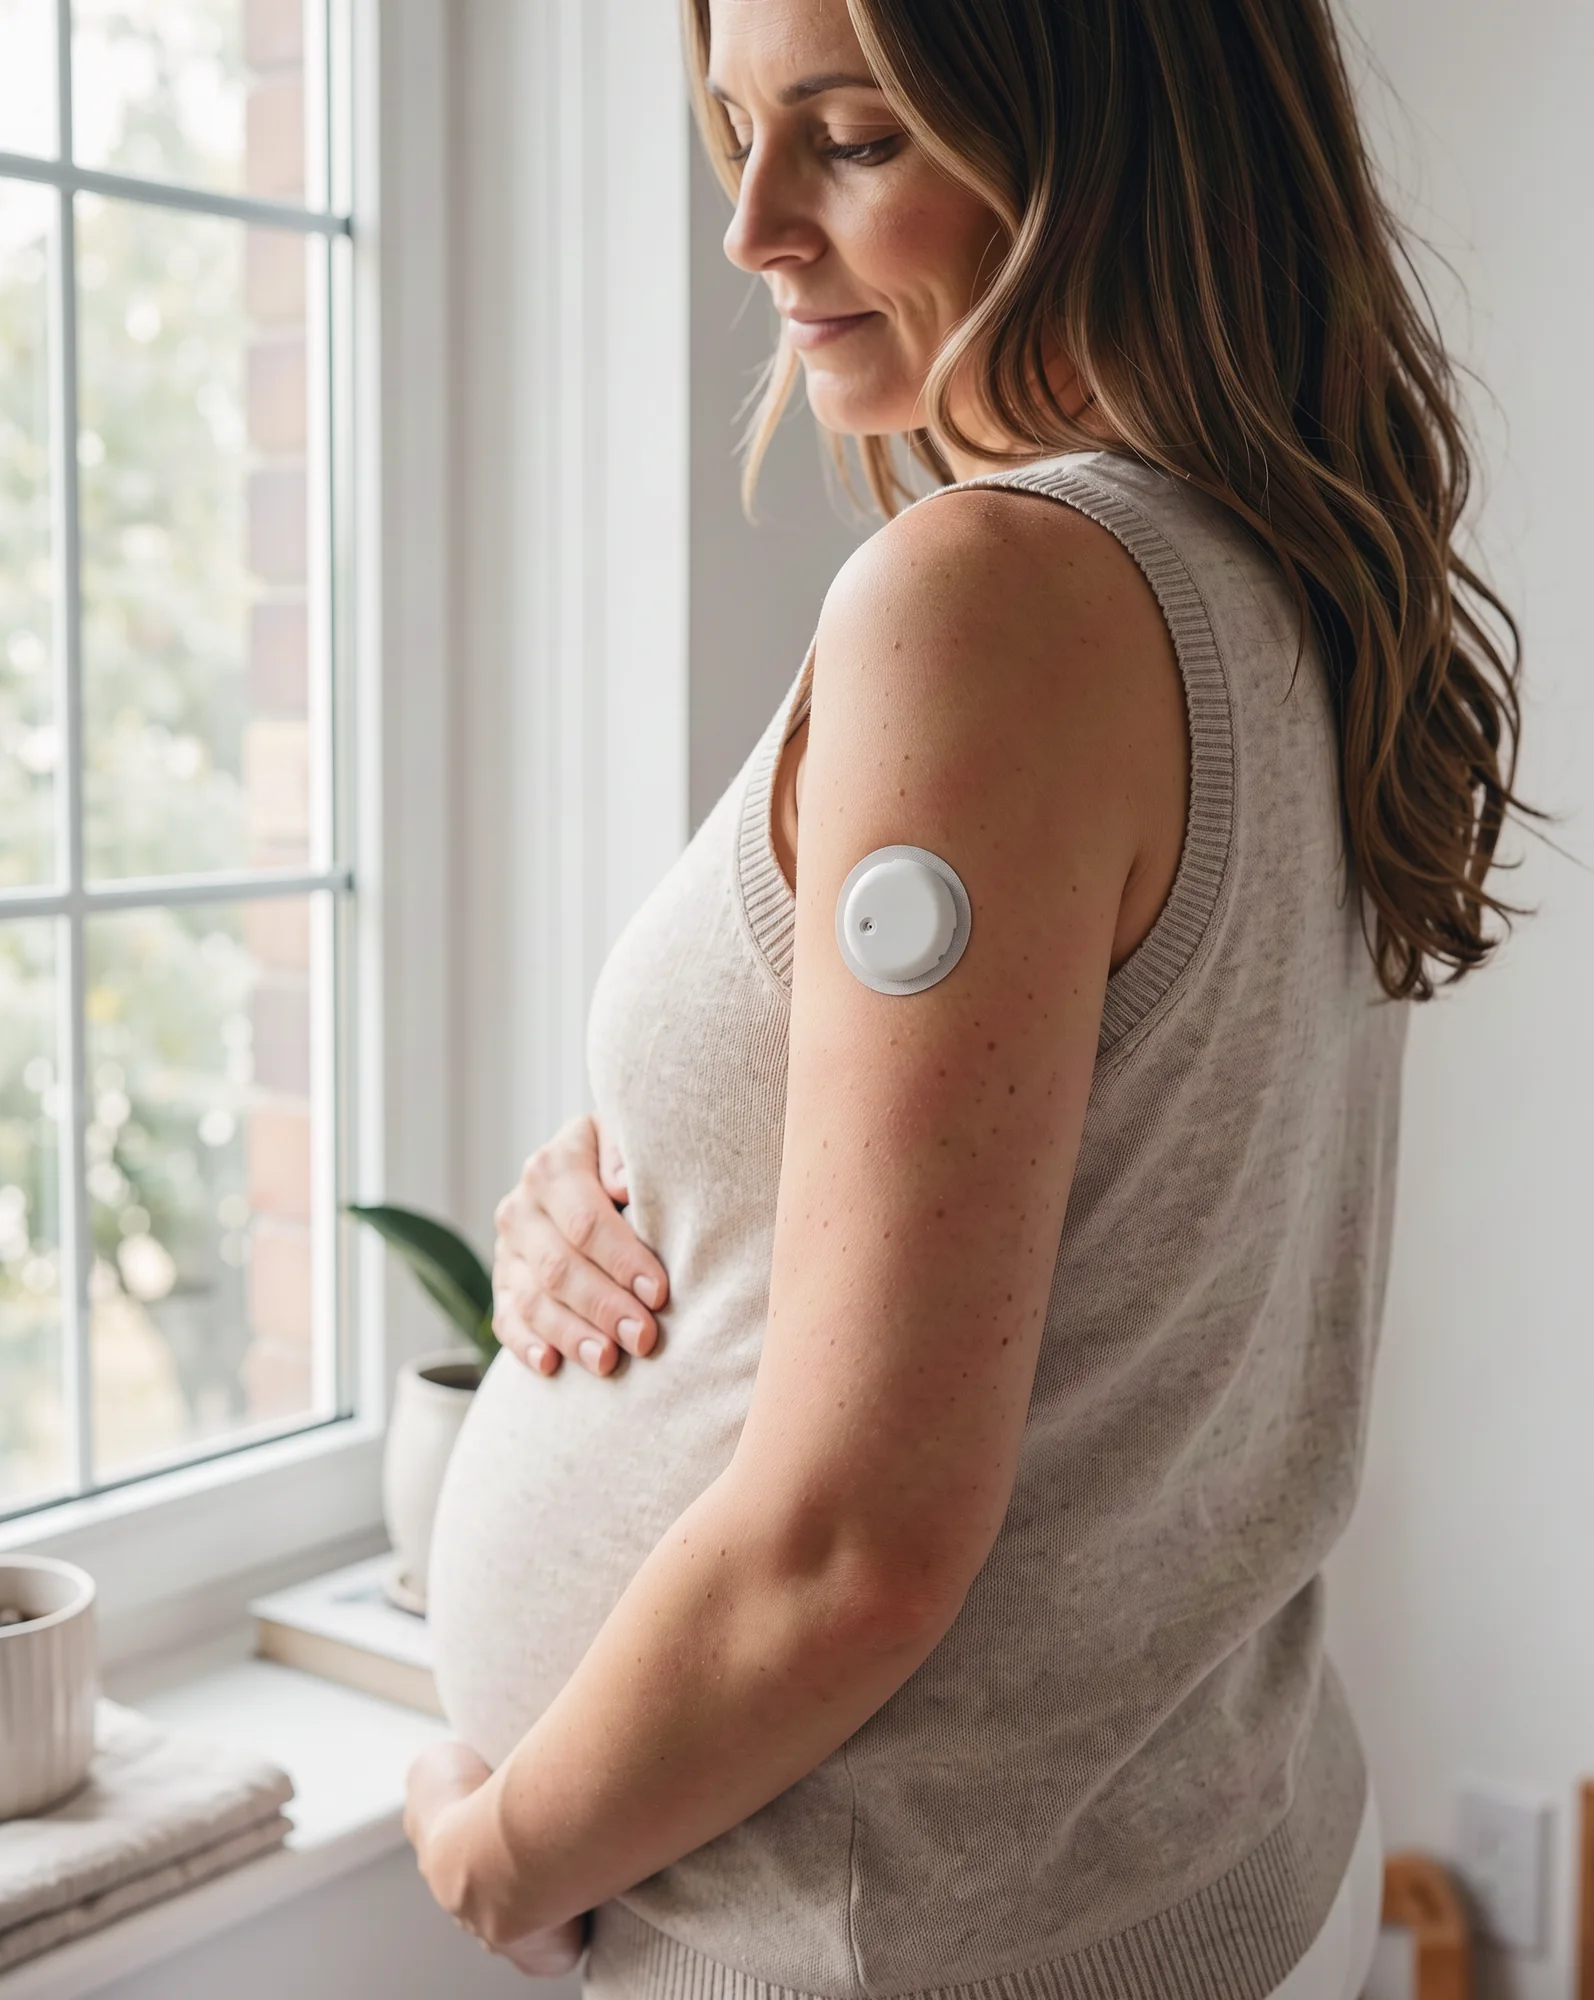
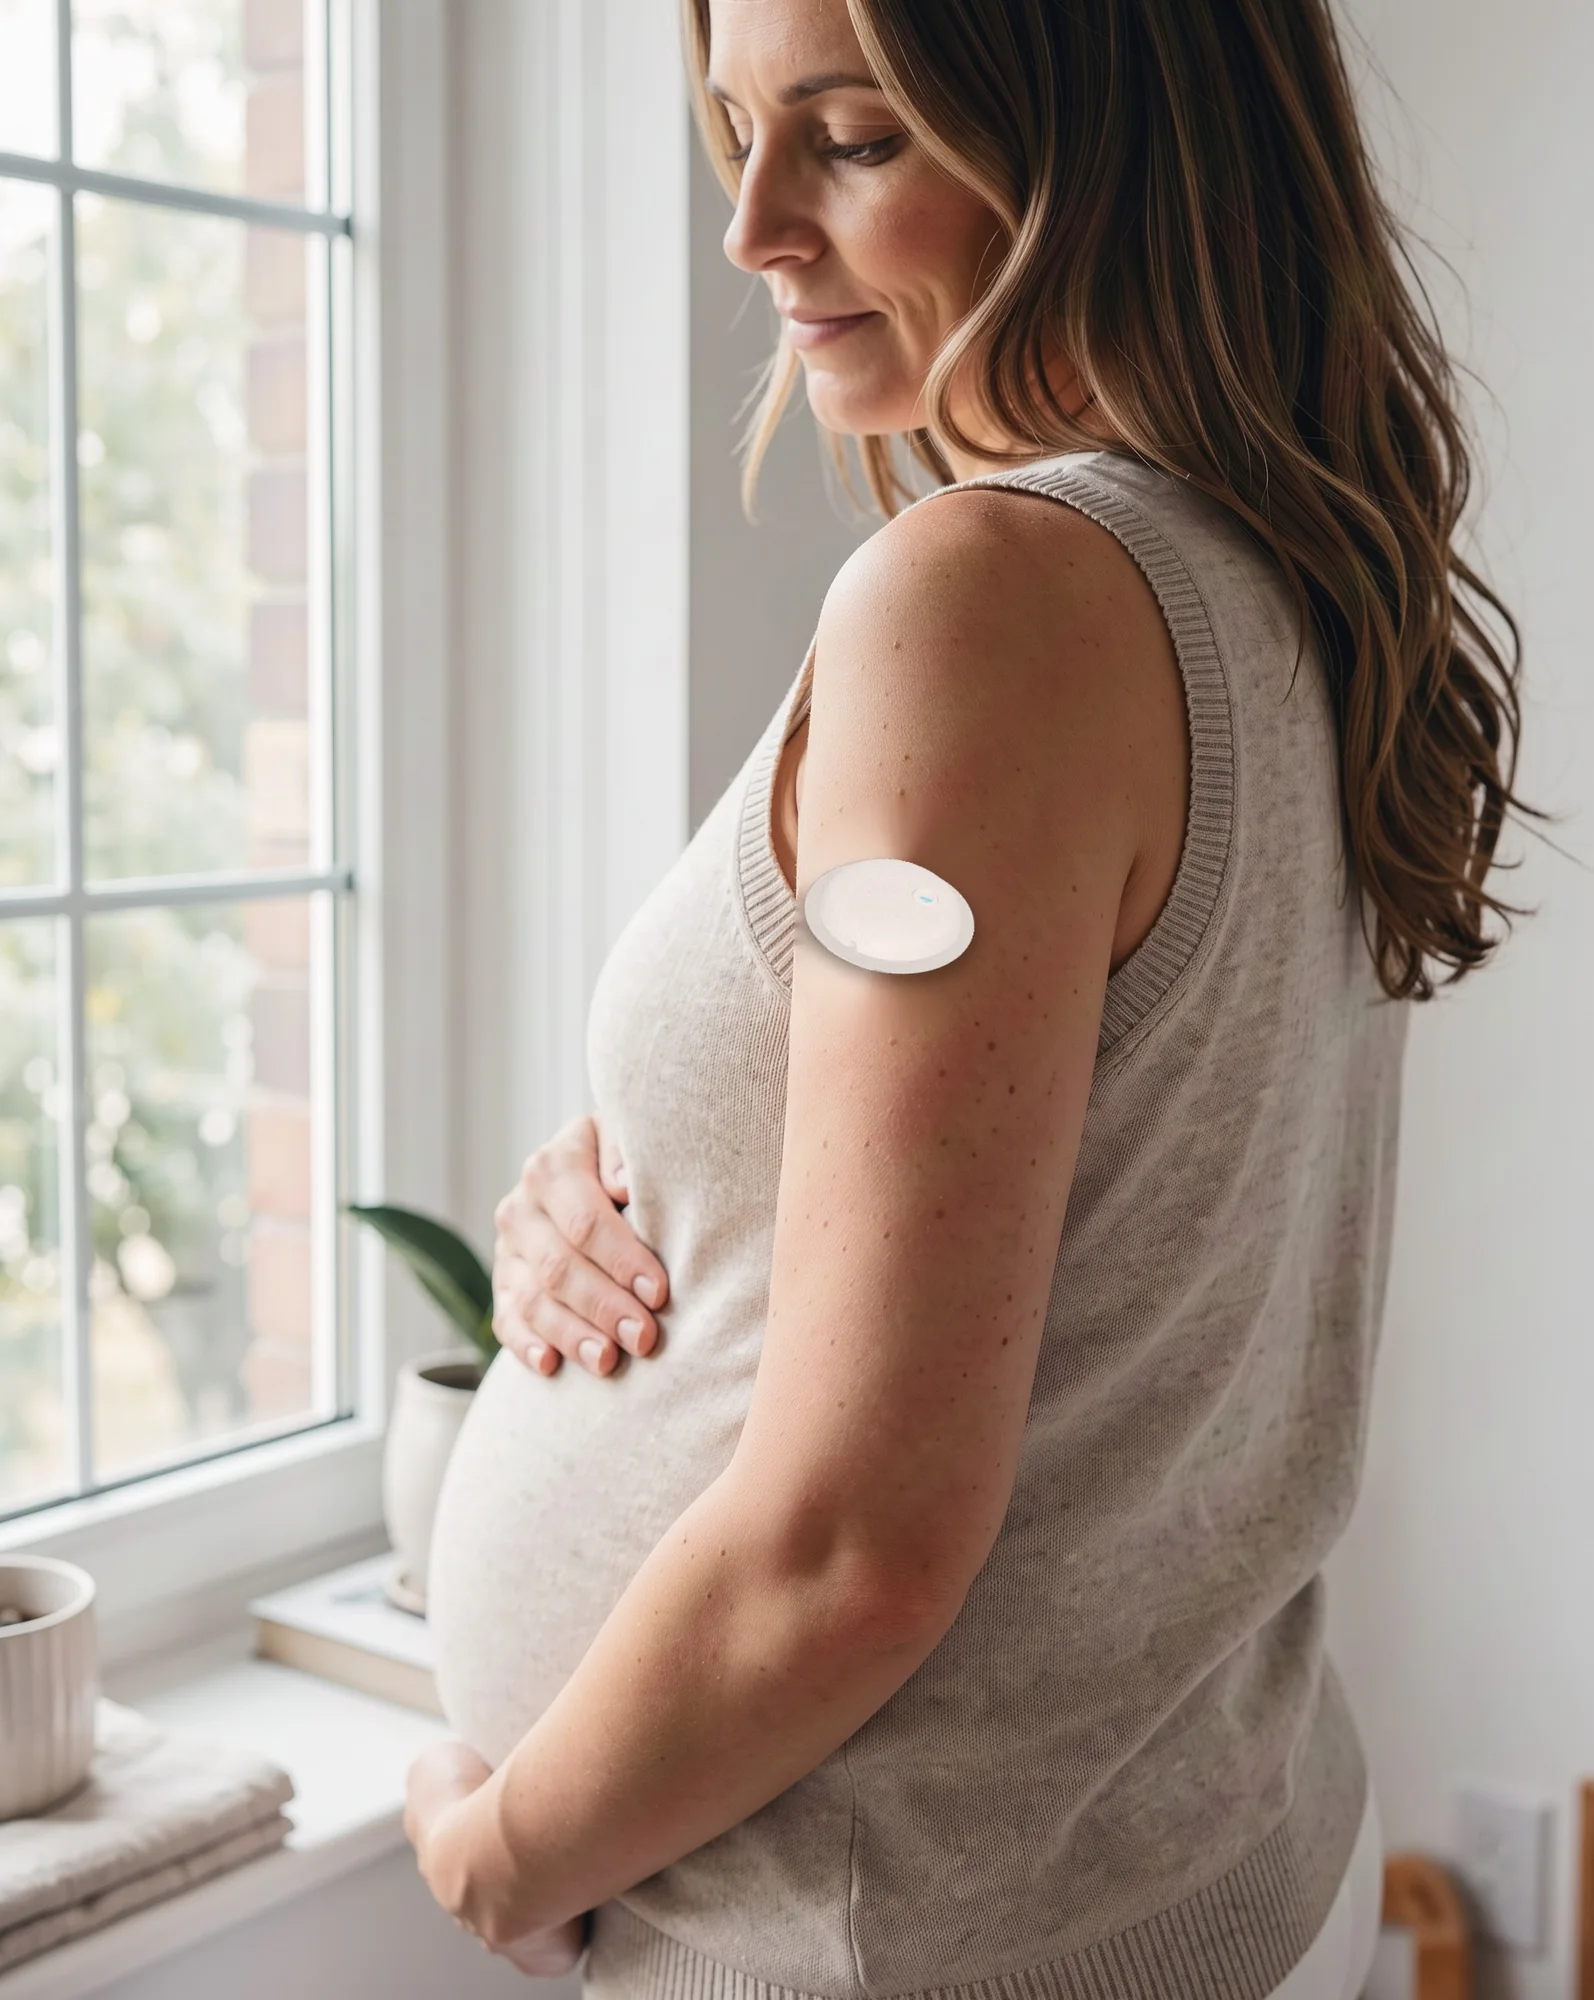
Lifestyle photos: the real sensor render composited into the FLUX photos (inpaint + matched elevation, tint, shadow, grain)
Claude-Session: https://claude.ai/code/session_01NpjdPoG7XdA2NsEeaCRFGi

Changed region(s): [[0.4918, 0.403, 0.6148, 0.496]]

diff --git a/web/scripts/composite-sensor.py b/web/scripts/composite-sensor.py
@@ -1,0 +1,101 @@
+"""Replace the generated sensor in a lifestyle photo with a render of the real Flystat sensor.
+
+For each photo we know roughly where the generated patch is. We segment the light patch around that point,
+fit an ellipse (gives size, tilt and foreshortening), inpaint the skin, then paste a render of the real sensor
+taken at the matching elevation, scaled to the requested real-world size, tinted to the photo's light and
+given a soft contact shadow.
+
+usage: python3 composite-sensor.py <photo> <out> <guess_x> <guess_y> [scale=0.9] [rotate_extra=0]
+"""
+import sys, math
+import numpy as np, cv2
+from PIL import Image, ImageFilter, ImageEnhance
+
+RENDERS = '/home/claude/flystat-2/assets3d/out/sens'
+
+def segment_patch(img, gx, gy, r=200, expect=None):
+    h, w = img.shape[:2]
+    x0, y0 = max(0, gx - r), max(0, gy - r)
+    sub = img[y0:y0 + 2 * r, x0:x0 + 2 * r]
+    hsv = cv2.cvtColor(sub, cv2.COLOR_BGR2HSV)
+    S, V = hsv[..., 1], hsv[..., 2]
+    mask = ((S < 45) & (V > 165)).astype(np.uint8) * 255
+    mask = cv2.morphologyEx(mask, cv2.MORPH_CLOSE, np.ones((7, 7), np.uint8))
+    mask = cv2.morphologyEx(mask, cv2.MORPH_OPEN, np.ones((5, 5), np.uint8))
+    n, lab, stats, cents = cv2.connectedComponentsWithStats(mask)
+    best, bd = None, 1e9
+    for i in range(1, n):
+        cx, cy = cents[i]
+        d = math.hypot(cx - r, cy - r)
+        area = stats[i, cv2.CC_STAT_AREA]
+        if expect and not (0.2 * math.pi * (expect / 2) ** 2 < area < 2.2 * math.pi * (expect / 2) ** 2): continue
+        if area > 400 and d < bd:
+            best, bd = i, d
+    if best is None:
+        raise SystemExit('patch not found')
+    comp = (lab == best).astype(np.uint8) * 255
+    cnts, _ = cv2.findContours(comp, cv2.RETR_EXTERNAL, cv2.CHAIN_APPROX_NONE)
+    (cx, cy), (MA, ma), ang = cv2.fitEllipse(max(cnts, key=cv2.contourArea))
+    full = np.zeros((h, w), np.uint8); full[y0:y0 + 2 * r, x0:x0 + 2 * r] = comp
+    return (cx + x0, cy + y0), (MA, ma), ang, full
+
+def main():
+    photo, out, gx, gy = sys.argv[1], sys.argv[2], int(sys.argv[3]), int(sys.argv[4])
+    scale = float(sys.argv[5]) if len(sys.argv) > 5 else 0.9
+    rot_extra = float(sys.argv[6]) if len(sys.argv) > 6 else 0
+    expect = float(sys.argv[7]) if len(sys.argv) > 7 else None
+    img = cv2.imread(photo)
+    (cx, cy), (MA, ma), ang, mask = segment_patch(img, gx, gy, r=int((expect or 300) * 0.9), expect=expect)
+    major, minor = max(MA, ma), min(MA, ma)
+    # fitEllipse angle is of the first axis (MA); if MA is the minor axis rotate by 90
+    tilt = ang if MA >= ma else ang + 90
+    el = max(30, min(90, math.degrees(math.asin(max(0.05, min(1, minor / major))))))
+    el_r = min((30, 40, 50, 60, 70, 80, 90), key=lambda e: abs(e - el))
+    print(f'patch at ({cx:.0f},{cy:.0f}) axes {major:.0f}x{minor:.0f} tilt {tilt:.0f}° → elevation {el:.0f}° (render {el_r})')
+    # the segmented blob is the white housing; the generated grey patch around it is ~1.4x wider → inpaint that whole area
+    if minor / major > 0.85: tilt = 90  # near-circular: the fitted angle is noise
+    patch = np.zeros_like(mask)
+    cv2.ellipse(patch, (int(cx), int(cy)), (int(major * 0.75), int(minor * 0.75 + (major - minor) * 0.15)), tilt, 0, 360, 255, -1)
+    mask = patch
+    # 1. inpaint the generated sensor with surrounding skin
+    dil = cv2.dilate(mask, np.ones((int(major * 0.1) | 1,) * 2, np.uint8))
+    clean = cv2.inpaint(img, dil, 9, cv2.INPAINT_TELEA)
+    # soften the inpainted zone so the skin texture seam does not show
+    # give the inpainted skin back some grain so it does not read as a smooth patch
+    noise = np.random.default_rng(1).normal(0, 2.2, clean.shape)
+    m3 = (cv2.GaussianBlur(dil, (0, 0), 4)[..., None] / 255.0)
+    clean = np.clip(clean + noise * m3, 0, 255).astype(np.uint8)
+    base = Image.fromarray(cv2.cvtColor(clean, cv2.COLOR_BGR2RGB)).convert('RGBA')
+    # 2. the render: major axis = patch diameter * scale
+    ren = Image.open(f'{RENDERS}/sensor-el{el_r}.png').convert('RGBA'); ren = ren.crop(ren.getbbox())
+    target_w = major * 1.17 * scale  # real patch is 28 mm over a 24 mm housing
+    k = target_w / ren.width
+    ren = ren.resize((max(1, int(ren.width * k)), max(1, int(ren.height * k))), Image.LANCZOS)
+    # tint towards the photo's local light: match mean brightness of the skin ring around the patch
+    ring = cv2.dilate(mask, np.ones((int(major * 0.5) | 1,) * 2, np.uint8)) & ~dil
+    skin = img[ring > 0].astype(float); lum = skin.mean() / 255 if len(skin) else 0.6
+    warm = skin.mean(0)[::-1] / 255 if len(skin) else np.array([.8, .7, .6])  # RGB
+    rgb = np.asarray(ren).astype(float)
+    exposure = 0.78 + 0.5 * lum
+    tint = warm / warm.max()
+    rgb[..., :3] = np.clip(rgb[..., :3] * exposure * (0.82 + 0.18 * tint), 0, 255)
+    # photo grain on the render, scaled with its alpha
+    g = np.random.default_rng(2).normal(0, 3.0, rgb.shape[:2])[..., None]
+    rgb[..., :3] = np.clip(rgb[..., :3] + g * (rgb[..., 3:4] / 255), 0, 255)
+    ren = Image.fromarray(rgb.astype(np.uint8), 'RGBA')
+    # soften render edges a touch (film look) and rotate to the patch tilt
+    ren = ren.filter(ImageFilter.GaussianBlur(0.6))
+    ren = ren.rotate(-(tilt - 90) + rot_extra, resample=Image.BICUBIC, expand=True)
+    # 3. contact shadow
+    sh = Image.new('RGBA', ren.size, (0, 0, 0, 0)); a = ren.split()[3]
+    sh.paste((40, 20, 10, 110), (0, 0), a)
+    sh = sh.filter(ImageFilter.GaussianBlur(major * 0.05))
+    px, py = int(cx - ren.width / 2), int(cy - ren.height / 2)
+    base.alpha_composite(sh, (px + int(major * 0.02), py + int(major * 0.06)))
+    base.alpha_composite(ren, (px, py))
+    # add a touch of film grain to the pasted zone so it matches
+    base.convert('RGB').save(out, quality=94)
+    print('saved', out)
+
+if __name__ == '__main__':
+    main()
